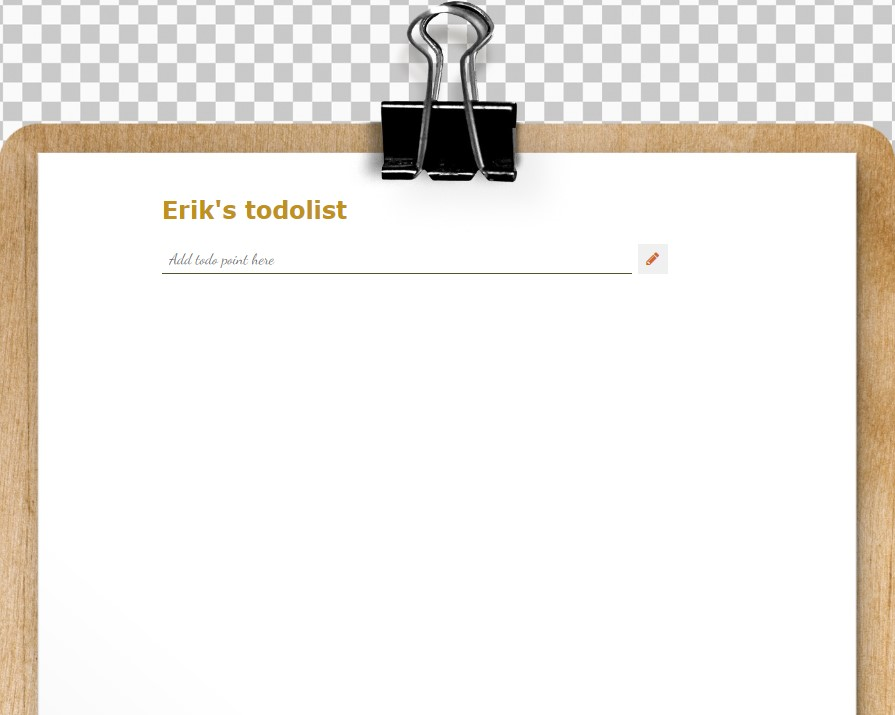
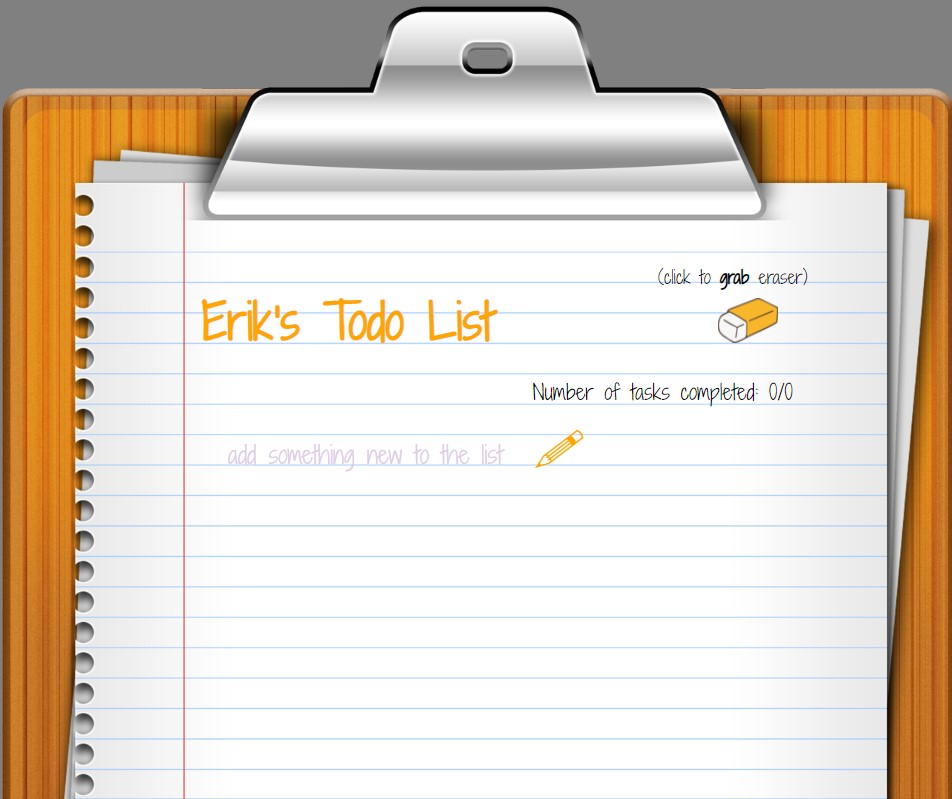
Changed link and image to todolist

diff --git a/index.html b/index.html
@@ -67,6 +67,12 @@
             advanced stuff as I progress. Click to check them out!
           </p>
           <div class="projectsContainer">
+            <!--▒▒▒▒▒ TODO APP ▒▒▒▒▒  -->
+            <a href="https://nelsonthebrave.github.io/Uppgift4-Igen/">
+              <img src="todo.jpg" alt="My todo list app" />
+              <p>A brilliant todo list-app!</p>
+            </a>
+
             <!--▒▒▒▒▒ BLACK JACK ▒▒▒▒▒  -->
             <a href="https://nelsonthebrave.github.io/Black-Jack-Game">
               <img src="blackjack.jpg" alt="Picture of Black Jack game" />
@@ -77,12 +83,6 @@
             <a href="https://nelsonthebrave.github.io/Favorite-Band-2/">
               <img src="favoritband.jpg" alt="My favorite band" />
               <p>Website for my favorite band</p>
-            </a>
-
-            <!--▒▒▒▒▒ TODO APP ▒▒▒▒▒  -->
-            <a href="https://nelsonthebrave.github.io/Uppgift4/">
-              <img src="todo.jpg" alt="My todo list app" />
-              <p>A brilliant todo list-app!</p>
             </a>
           </div>
         </div>

diff --git a/styles.css b/styles.css
@@ -94,10 +94,14 @@ header {
   font-size: 45px;
 }
 
+/* ▒▒▒▒▒▒▒▒▒▒▒▒▒▒▒ ABOUT ▒▒▒▒▒▒▒▒▒▒▒▒▒▒▒ */
+
 #about {
   background: linear-gradient(rgba(54, 210, 54, 0.95), rgba(54, 210, 54, 0.95)),
     url("jungle.jpg") center;
 }
+
+/* ▒▒▒▒▒▒▒▒▒▒▒▒▒▒▒ PROJECTS ▒▒▒▒▒▒▒▒▒▒▒▒▒▒▒ */
 
 #projects {
   background: linear-gradient(rgba(183, 108, 11, 0.7), rgba(183, 108, 11, 0.7)),
@@ -142,6 +146,8 @@ header {
   transform: scale(1.2) rotate(-4deg);
   transition: all 1s ease-out;
 }
+
+/* ▒▒▒▒▒▒▒▒▒▒▒▒▒▒▒ EXPERIENCE ▒▒▒▒▒▒▒▒▒▒▒▒▒▒▒ */
 
 #experience {
   background-color: rgb(150, 10, 10);
